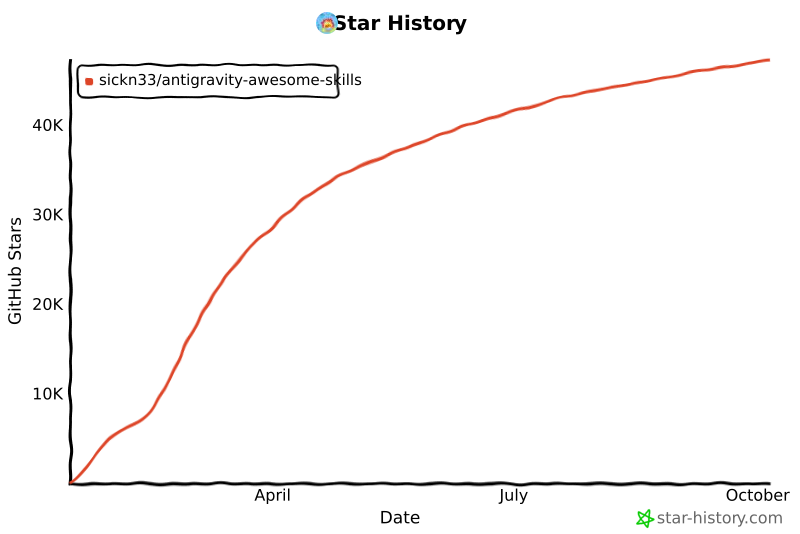
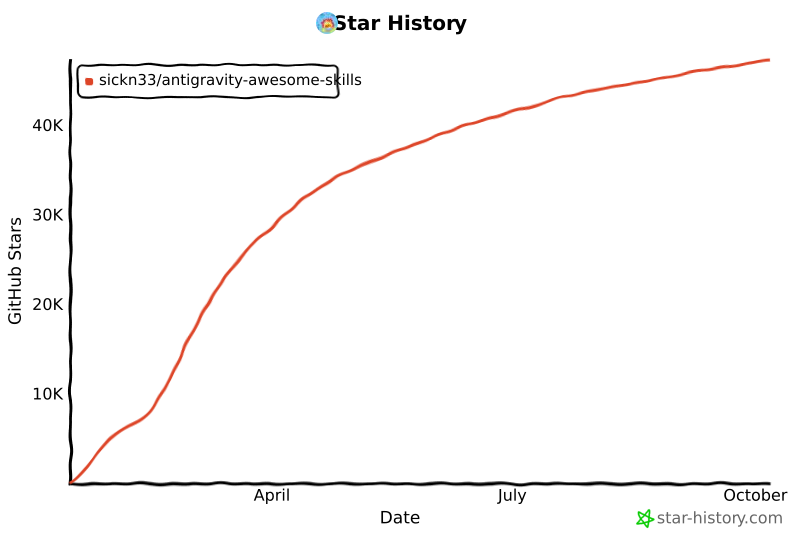
chore: update star history chart

diff --git a/README.md b/README.md
@@ -505,14 +505,14 @@ We officially thank the following contributors for their help in making this rep
 ## Star History
 
 <a href="https://www.star-history.com/#sickn33/antigravity-awesome-skills&type=date&legend=top-left">
- <img alt="Star History Chart" src="https://api.star-history.com/svg?repos=sickn33/antigravity-awesome-skills&type=date&legend=top-left&cache_bust=202610061223" />
+ <img alt="Star History Chart" src="https://api.star-history.com/svg?repos=sickn33/antigravity-awesome-skills&type=date&legend=top-left&cache_bust=202610071215" />
 </a>
 
 <a href="https://www.star-history.com/sickn33/antigravity-awesome-skills">
  <picture>
-   <source media="(prefers-color-scheme: dark)" srcset="https://api.star-history.com/chart?repos=sickn33/antigravity-awesome-skills&style=landscape1&theme=dark&cache_bust=202610061223" />
-   <source media="(prefers-color-scheme: light)" srcset="https://api.star-history.com/chart?repos=sickn33/antigravity-awesome-skills&style=landscape1&cache_bust=202610061223" />
-   <img alt="Star History Chart" src="https://api.star-history.com/chart?repos=sickn33/antigravity-awesome-skills&style=landscape1&cache_bust=202610061223" />
+   <source media="(prefers-color-scheme: dark)" srcset="https://api.star-history.com/chart?repos=sickn33/antigravity-awesome-skills&style=landscape1&theme=dark&cache_bust=202610071215" />
+   <source media="(prefers-color-scheme: light)" srcset="https://api.star-history.com/chart?repos=sickn33/antigravity-awesome-skills&style=landscape1&cache_bust=202610071215" />
+   <img alt="Star History Chart" src="https://api.star-history.com/chart?repos=sickn33/antigravity-awesome-skills&style=landscape1&cache_bust=202610071215" />
  </picture>
 </a>
 
